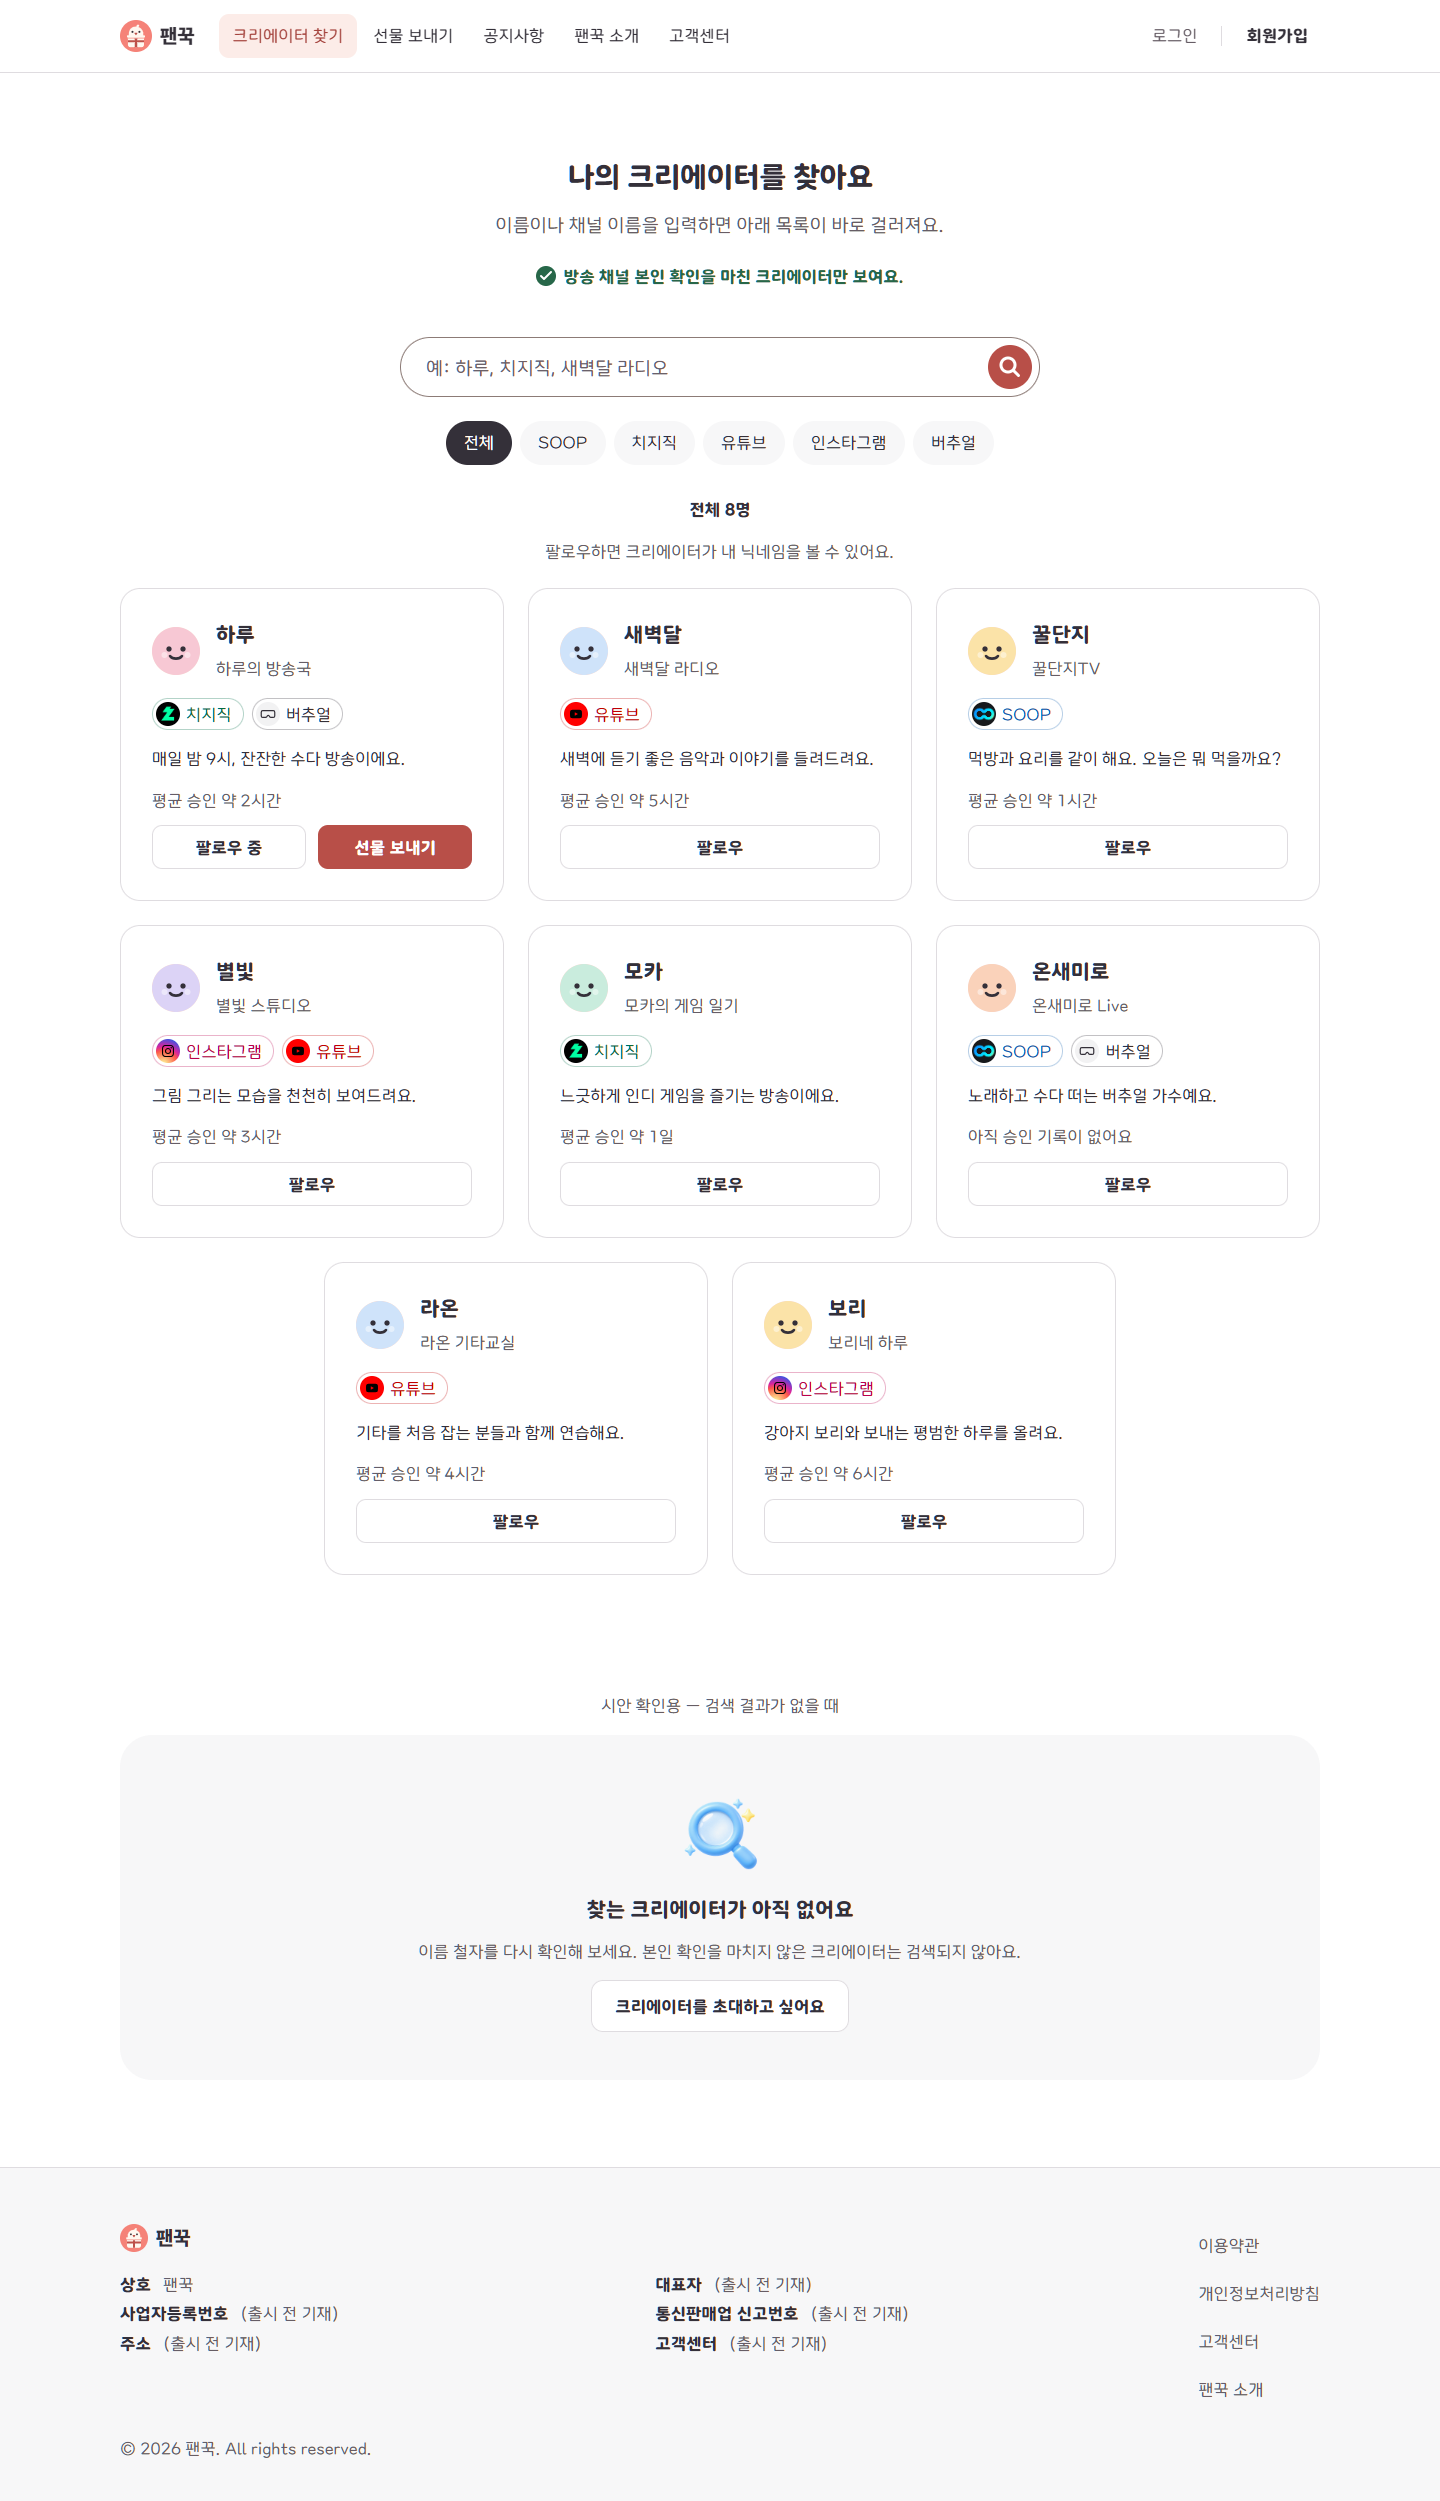
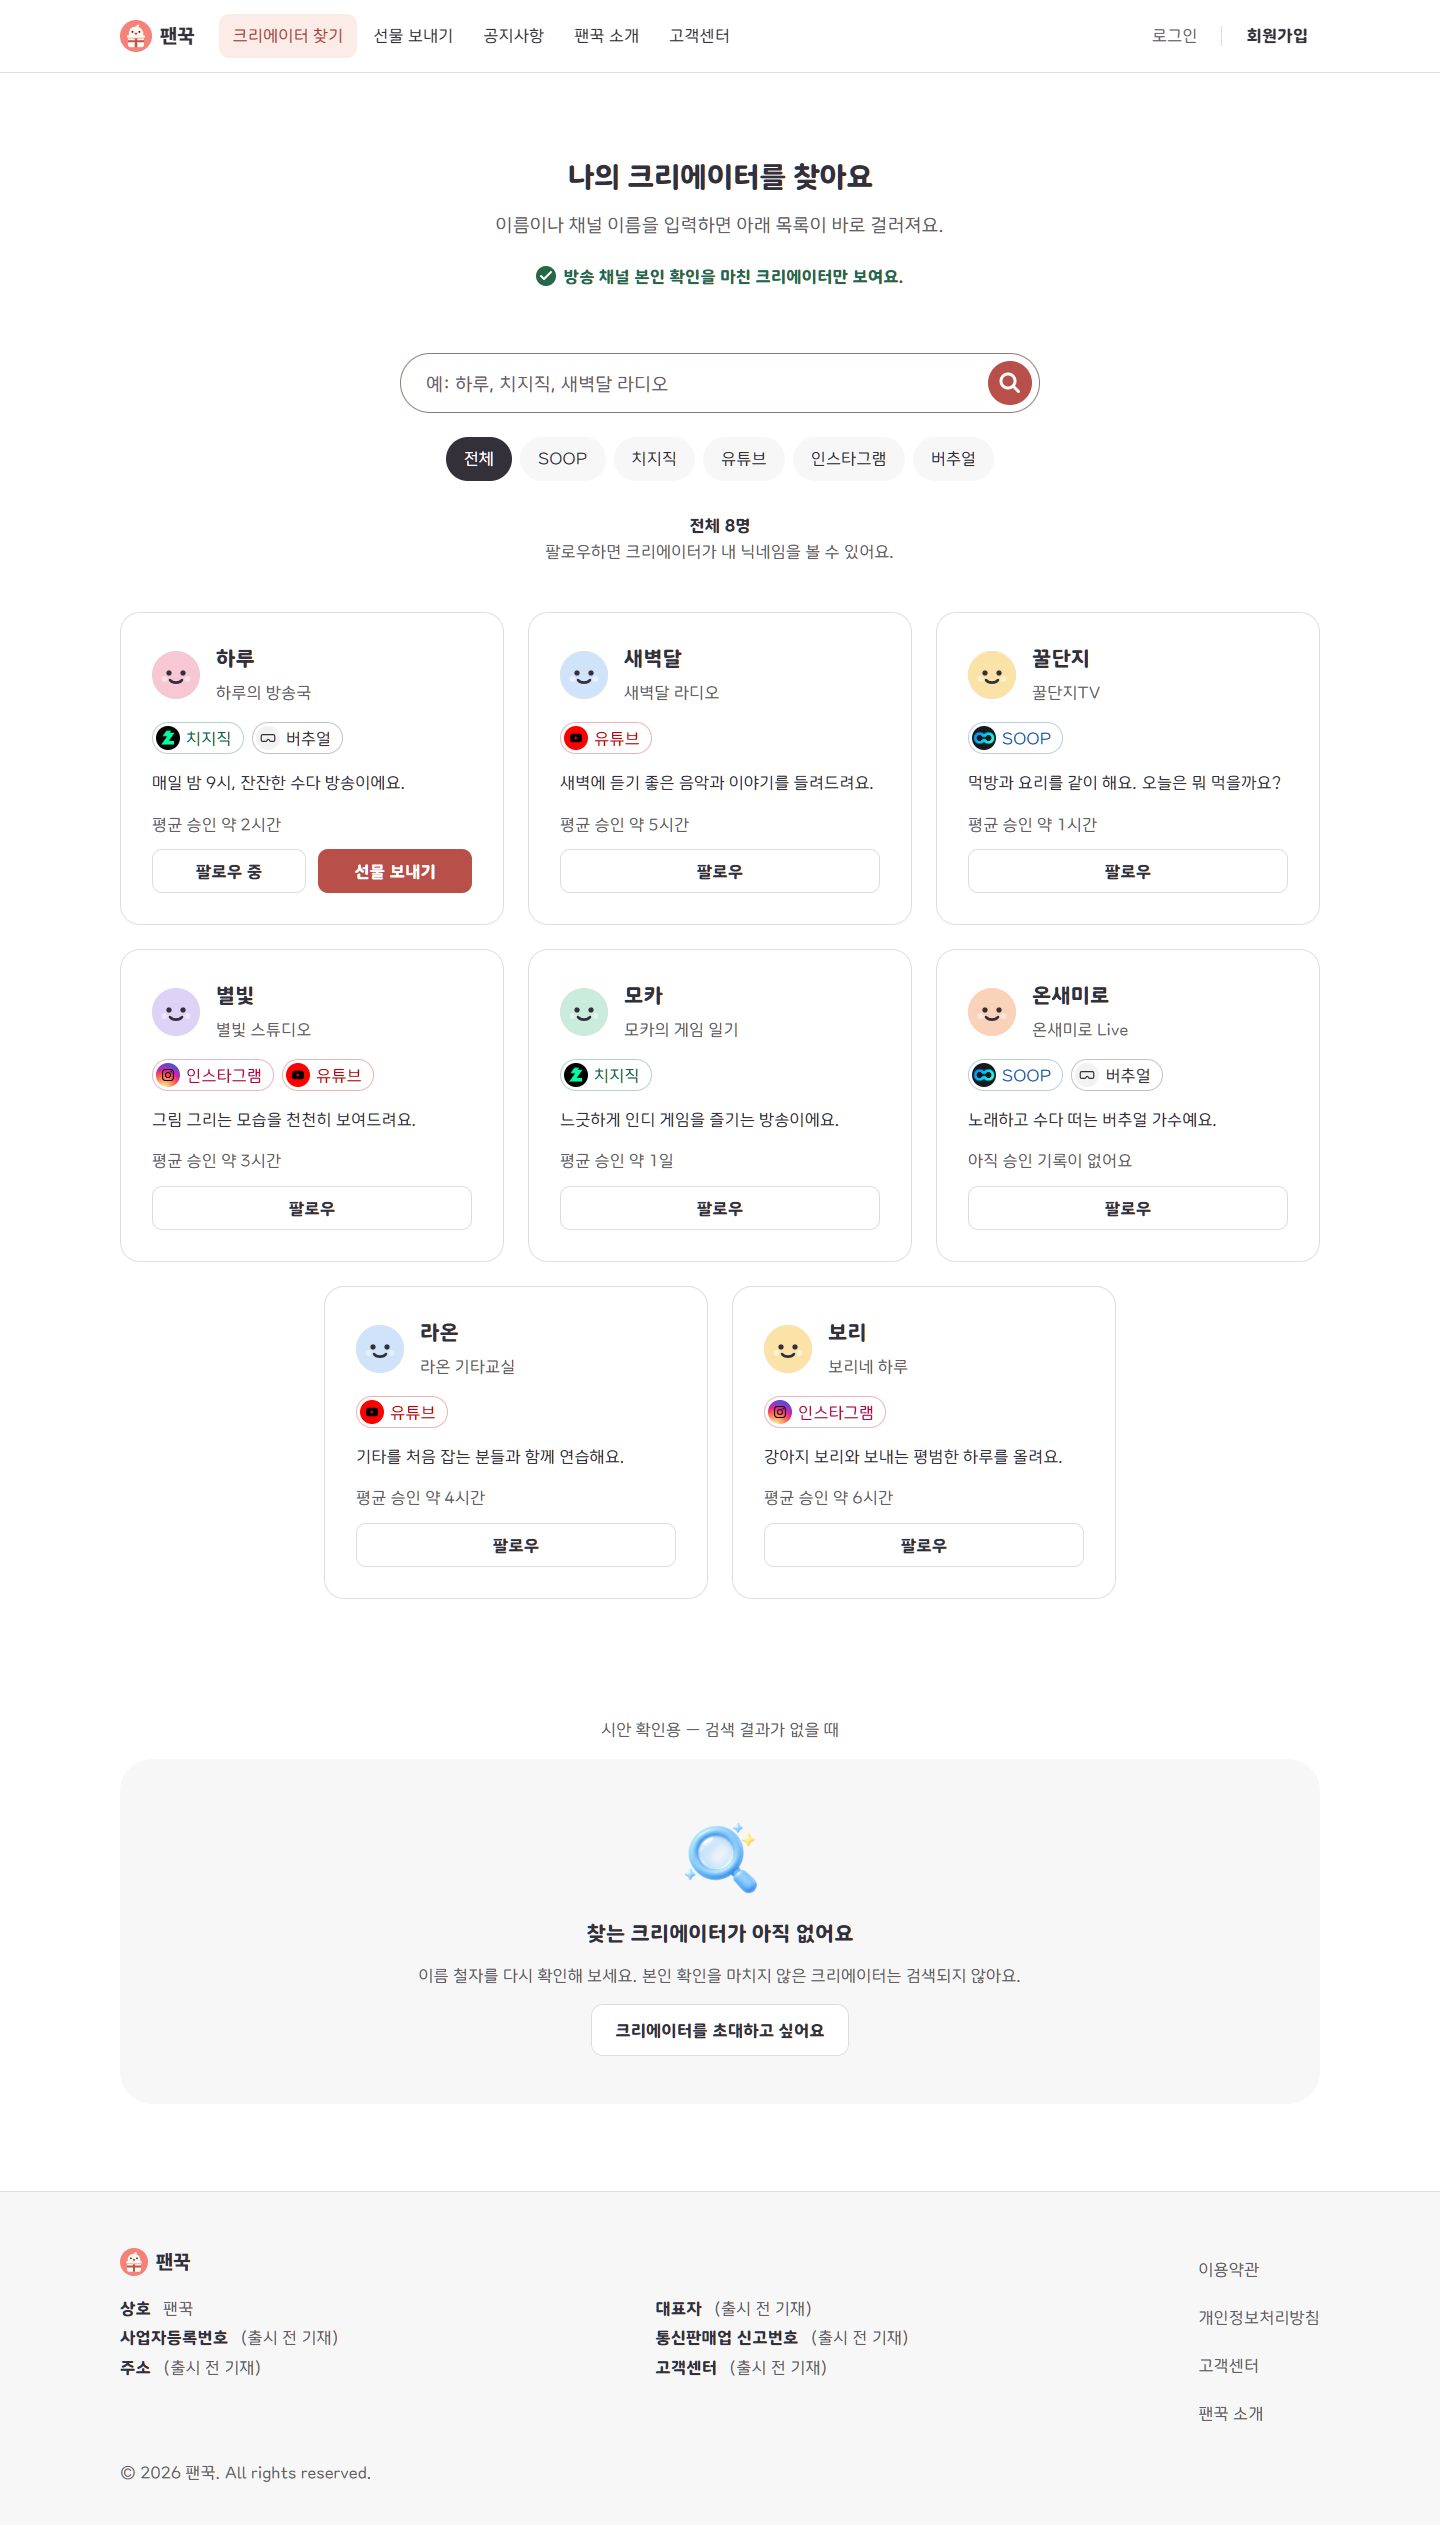
docs(fankkuk): v11 제목·설명 → 내용 간격 넓힘 — 구간 머리 64·화면 머리 48·목록 위 안내 48·작은 제목 32·이름표 16 (휴대폰 48·32·32·24·16)
Claude-Session: https://claude.ai/code/session_012ZzUPkDyX6EmouyR5g4nGM

diff --git a/projects/fankkuk/docs/design/mockups/site/v11/v11.css b/projects/fankkuk/docs/design/mockups/site/v11/v11.css
@@ -576,3 +576,19 @@ fieldset.part > legend + *{clear:both}
 .ctag .bd{width:24px;height:24px;border-radius:50%}
 .ctag svg{width:24px;height:24px;padding:3px;border-radius:50%;background:#f2f2f3}
 @media (prefers-reduced-motion:reduce){.ctag{transition:none}}
+
+/* ---------- 14. 제목·설명 → 아래 내용 간격 (2026-10-13 사용자 「텍스트와 섹션 사이가 너무 가깝다」) ----------
+   큰 구간 머리 64 · 화면 머리 48 · 작은 제목/안내 한 줄 32 · 상자 위 이름표 16 (휴대폰 48 · 32 · 24 · 16) */
+.sec-head{margin-bottom:64px}
+.page-head,.step-h,.auth .head,.my-body > .sec-head{margin-bottom:48px}
+:is(h2,h3,.section-hint,.bar):has(+ :is(.grid,.table-wrap,.part,.card,.ccard,form,.stack,.acc,.cards,.steps,.flow,.list)){margin-bottom:32px}
+.t-meta:has(+ :is(.grid,.table-wrap,.part,.card,.ccard,form,.stack,.acc,.cards,.steps,.flow,.list)){margin-bottom:16px}
+.bar:has(+ .section-hint){margin-bottom:8px}
+@media(max-width:767px){
+  .sec-head{margin-bottom:48px}
+  .page-head,.step-h,.auth .head,.my-body > .sec-head{margin-bottom:32px}
+  :is(h2,h3,.section-hint,.bar):has(+ :is(.grid,.table-wrap,.part,.card,.ccard,form,.stack,.acc,.cards,.steps,.flow,.list)){margin-bottom:24px}
+}
+/* 목록 위 안내 한 줄은 구간 머리의 끝이다 — 화면 머리와 같은 48(휴대폰 32) */
+.section-hint:has(+ :is(.grid,.cards,.list)){margin-bottom:48px}
+@media(max-width:767px){.section-hint:has(+ :is(.grid,.cards,.list)){margin-bottom:32px}}

diff --git a/projects/fankkuk/docs/design/mockups/site/v11/creator-requests.html b/projects/fankkuk/docs/design/mockups/site/v11/creator-requests.html
@@ -78,7 +78,7 @@
         </section>
 
         <section aria-labelledby="wait-h" style="margin-top:40px">
-          <h2 class="t-card" id="wait-h" style="margin-bottom:16px">승인 대기 4</h2>
+          <h2 class="t-card" id="wait-h">승인 대기 4</h2>
           <ul class="grid cols-2">
             <li class="card card-col">
               <div class="who"><span class="avatar" aria-hidden="true">하</span><div><h3>하루님의 선물</h3><p class="t-meta">인형·쿠션 · 상자 2개 · FC-7K3M9</p></div></div>
@@ -108,7 +108,7 @@
         </section>
 
         <section aria-labelledby="done-h" style="margin-top:48px">
-          <h2 class="t-card" id="done-h" style="margin-bottom:16px">처리한 요청</h2>
+          <h2 class="t-card" id="done-h">처리한 요청</h2>
           <ul class="grid cols-2">
             <li class="card card-col"><p><span class="tag tag--success">승인함</span></p><div><h3>소라님의 선물</h3><p class="t-meta">꽃 · 상자 1개 · FC-1A7BX</p></div><p class="t-meta">10.04 처리 · 카카오톡 서명으로 승인했어요.</p></li>
             <li class="card card-col"><p><span class="tag tag--danger">받지 않음</span></p><div><h3>보리님의 선물</h3><p class="t-meta">대형 물품 · 상자 1개 · FC-9Z2KD</p></div><p class="t-meta">10.03 처리 · 팬에게는 이유를 알리지 않았어요.</p></li>

diff --git a/projects/fankkuk/docs/design/mockups/site/v11/creator-log.html b/projects/fankkuk/docs/design/mockups/site/v11/creator-log.html
@@ -66,7 +66,7 @@ dd.num{margin-left:0}
         </div>
 
         <section aria-labelledby="sum-h">
-          <h2 class="t-card" id="sum-h" style="margin-bottom:16px">이번 달 (2026년 10월)</h2>
+          <h2 class="t-card" id="sum-h">이번 달 (2026년 10월)</h2>
           <dl class="grid cols-3 keep">
             <div class="card"><dt class="t-meta" style="font-weight:400">승인</dt><dd class="num">8<small>건</small></dd></div>
             <div class="card"><dt class="t-meta" style="font-weight:400">주소 열림</dt><dd class="num">6<small>번</small></dd></div>
@@ -80,7 +80,7 @@ dd.num{margin-left:0}
         </section>
 
         <section aria-labelledby="rec-h" style="margin-top:48px">
-          <h2 class="t-card" id="rec-h" style="margin-bottom:16px">열람 기록 (최근 순)</h2>
+          <h2 class="t-card" id="rec-h">열람 기록 (최근 순)</h2>
           <div class="table-wrap" tabindex="0" role="region" aria-label="주소 열람 기록 표">
             <table class="table">
               <caption class="sr-only">주소 열람 기록. 최근 순</caption>

diff --git a/projects/fankkuk/docs/design/mockups/site/v11/gifts.html b/projects/fankkuk/docs/design/mockups/site/v11/gifts.html
@@ -68,7 +68,7 @@
         <div class="sec-head"><h2 class="t-title">선물 내역</h2></div>
 
         <section aria-labelledby="by-h" style="margin-bottom:48px">
-          <h3 id="by-h" style="margin-bottom:16px">크리에이터별로 보기</h3>
+          <h3 id="by-h">크리에이터별로 보기</h3>
           <ul class="grid cols-3">
             <li><a class="card tg" href="#"><span class="face" style="--f:#f6d6cf" aria-hidden="true">별</span><span><strong>별빛님과 함께한 시간</strong><br><span class="t-meta">선물 4개 · 답장 2통</span></span><span aria-hidden="true">›</span></a></li>
             <li><a class="card tg" href="#"><span class="face" style="--f:#f8e3b8" aria-hidden="true">달</span><span><strong>달무리님과 함께한 시간</strong><br><span class="t-meta">선물 2개 · 답장 0통</span></span><span aria-hidden="true">›</span></a></li>

diff --git a/projects/fankkuk/docs/design/mockups/site/v11/creator-revgift-new.html b/projects/fankkuk/docs/design/mockups/site/v11/creator-revgift-new.html
@@ -93,7 +93,7 @@
       </section>
 
       <section aria-labelledby="flow-h" style="margin-top:56px">
-        <h2 class="t-card" id="flow-h" style="margin-bottom:24px">이렇게 진행돼요</h2>
+        <h2 class="t-card" id="flow-h">이렇게 진행돼요</h2>
         <ol class="flow" style="--steps:3">
           <li><span class="n" aria-hidden="true">1</span><div><h3>팬이 「받기」를 누를 때 주소를 직접 입력해요</h3><p>크리에이터에게는 팬의 주소가 보이지 않아요.</p></div></li>
           <li><span class="n" aria-hidden="true">2</span><div><h3>결제하면 팬마다 받는 주소가 안내돼요</h3><p>팬마다 상자를 따로 포장해서, 그 팬의 받는 주소를 끝까지 그대로 써서 보내 주세요.</p></div></li>

diff --git a/projects/fankkuk/docs/design/mockups/site/v11/gift-with.html b/projects/fankkuk/docs/design/mockups/site/v11/gift-with.html
@@ -93,7 +93,7 @@
       </section>
 
       <section class="section" aria-labelledby="tl-h" style="padding-bottom:0">
-        <div class="sec-head" style="margin-bottom:32px">
+        <div class="sec-head">
           <h2 class="t-title" id="tl-h">함께한 기록</h2>
           <p class="t-lead t-desc">최신 기록이 위에 있어요.</p>
         </div>
